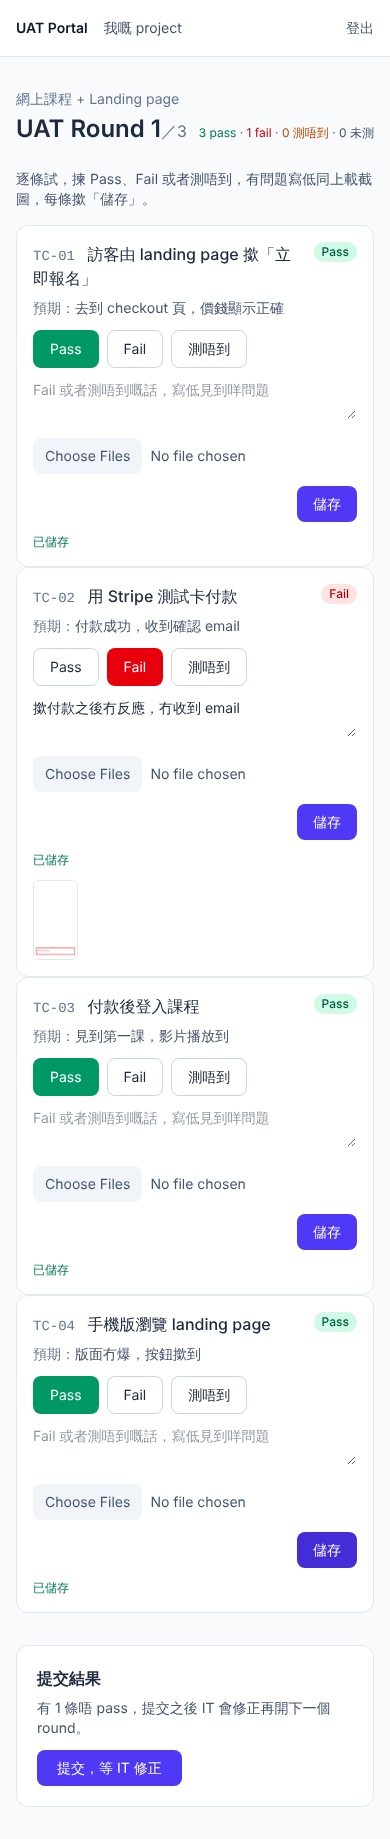
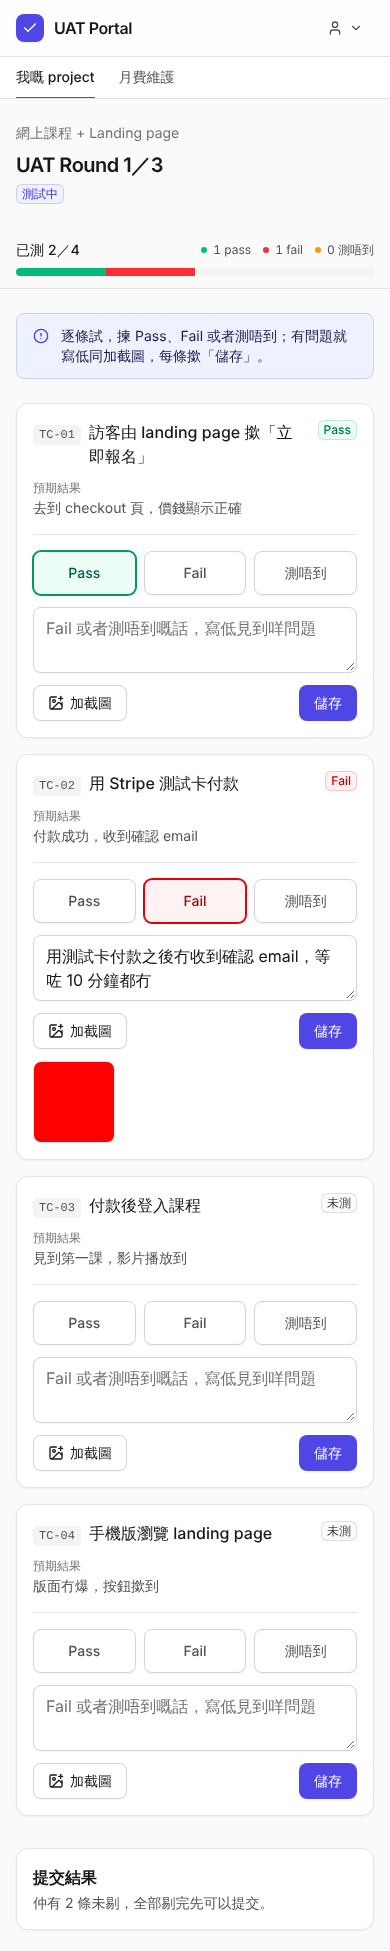
README: new screenshots and how to check the UI
Claude-Session: https://claude.ai/code/session_01TNE2iERXJrsQkk2YA5uQj4

diff --git a/README.md b/README.md
@@ -42,6 +42,7 @@ UAT Portal replaces that with one place where:
 - **Notice and handover**: recording a notice of termination sets the end date from the notice period and lists a handover checklist. Each side ticks its own items; the client cannot tick the provider's.
 - **Retention dashboard**: one row per live client with rounds used, months with extra rounds and the last ticket, flagged as *notice given*, *live but no retainer*, *often over (suggest an upgrade)*, *low usage (get in touch)* or *healthy*, plus the total monthly fees in force.
 - **AI triage**: failing UAT comments are summarised and classified as *bug*, *change request* or *unclear*, with a prompt to raise a change request when scope is creeping.
+- **Interface**: a small design system on Tailwind v4 (semantic colour tokens, component classes, Lucide icons) with a sidebar back office for desktop and a phone-first client portal. A custom form builder gives every field a label, an inline error and `aria-invalid`, and the monthly report and sign-off certificate print cleanly to A4.
 
 ## Architecture
 
@@ -149,6 +150,14 @@ bundle install
 bin/build-seal          # builds the Rust binary into bin/uat-seal (rerun on a new machine)
 bin/rails db:setup      # creates the database and demo data (sign-in details are in db/seeds.rb)
 bin/dev                 # http://localhost:3000
+```
+
+To check the interface by eye, add demo data for every state (a failed round with a screenshot, a pending CR, a sign-off, a retainer under notice) and take screenshots of 32 pages at phone and desktop widths:
+
+```bash
+bin/rails db:seed:replant dev:ui_states
+bin/rails runner script/ui_pages.rb > tmp/ui_pages.json
+node script/ui_snapshots.mjs tmp/ui_pages.json tmp/ui/latest   # needs Playwright and a running server
 ```
 
 Optional AI triage:
